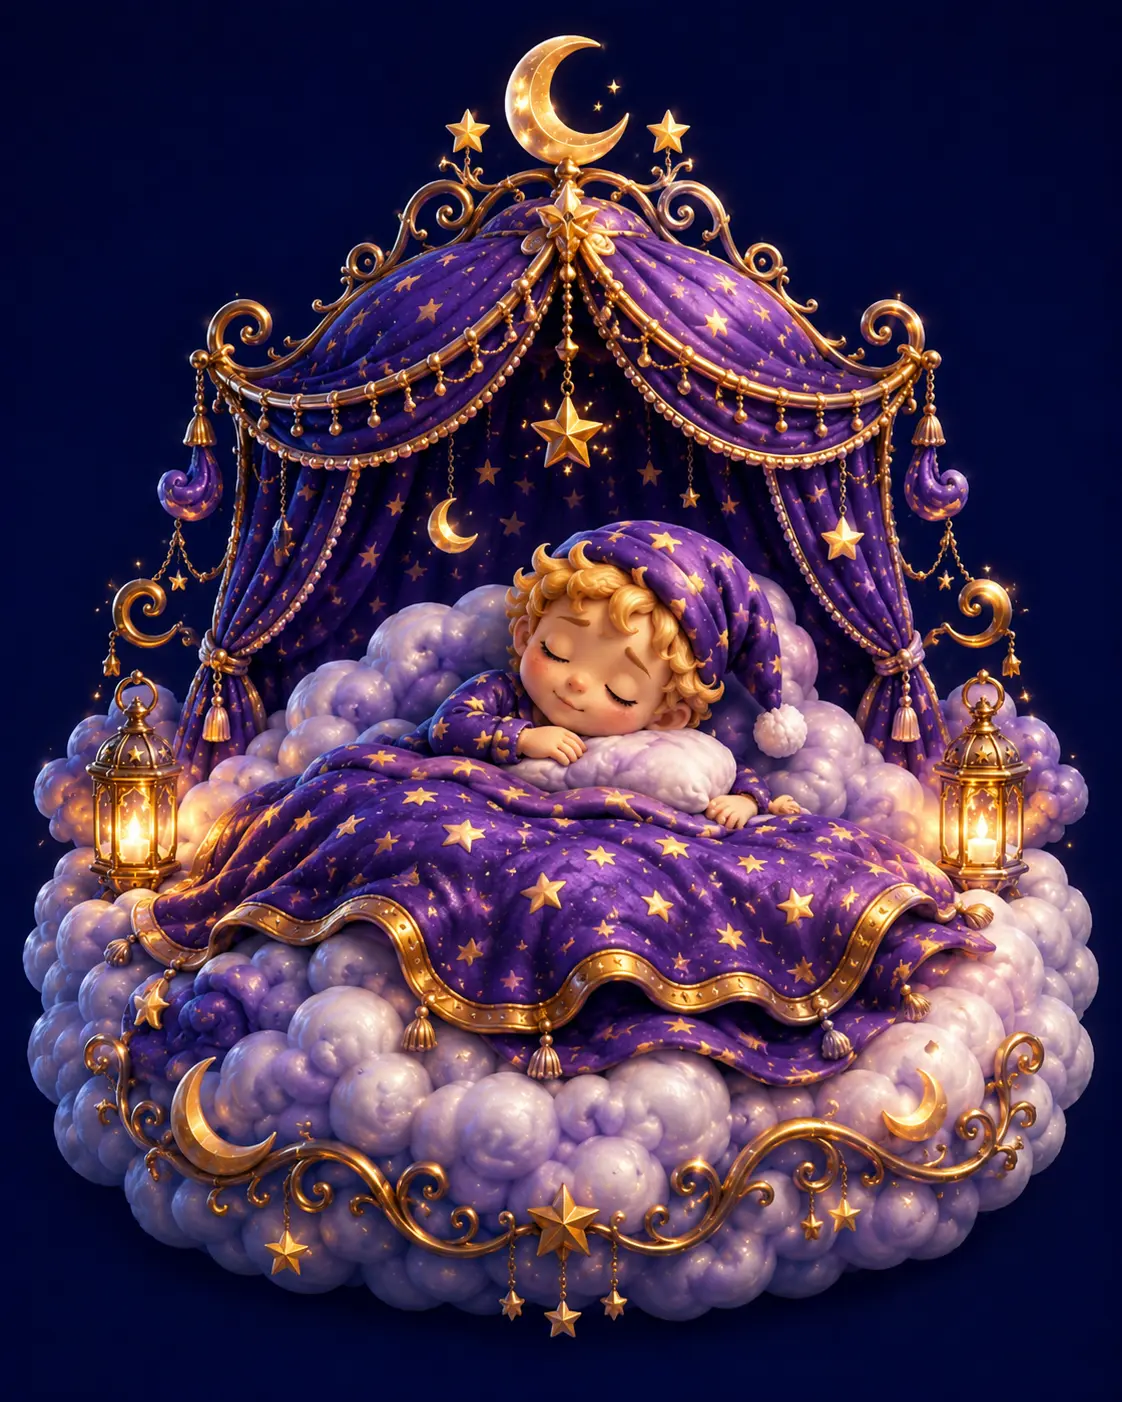
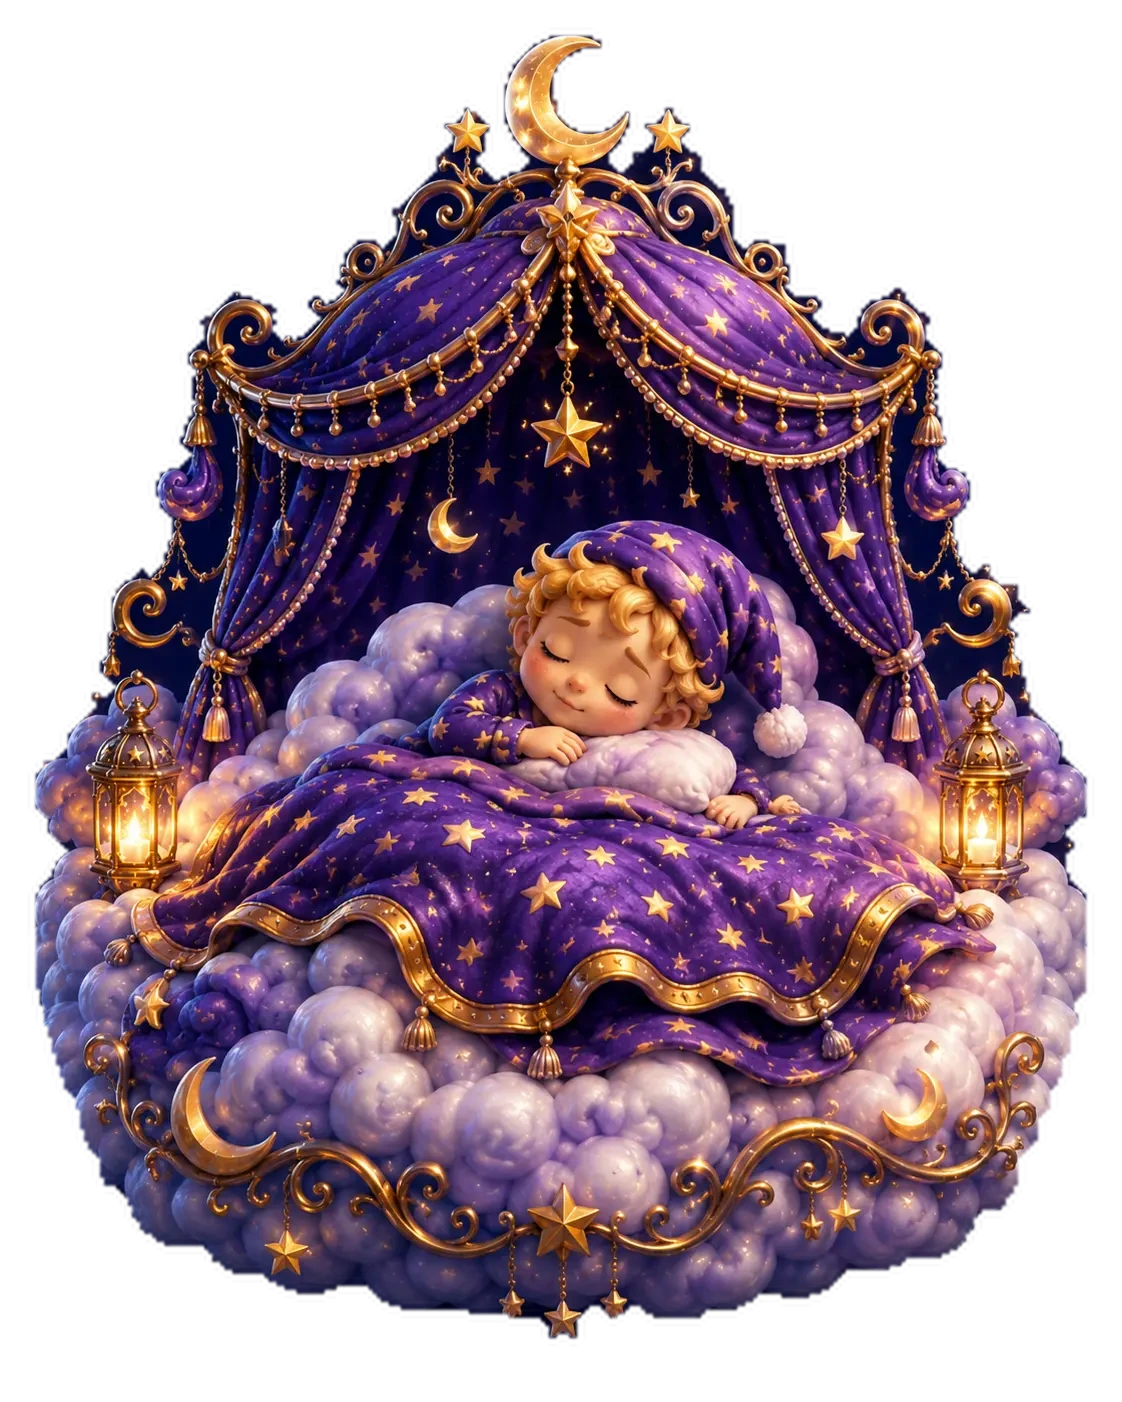
ChatGPT: remove remaining Park 3.1 backdrops
Extract Good Deed, Steps, and Sleep as true transparent WebP cutouts while preserving their progression effects. Home and Park 3 remain unchanged.

diff --git a/tests/park31-smoke.js b/tests/park31-smoke.js
@@ -85,7 +85,7 @@ vm.runInNewContext(source,sandbox,{filename:'park31.js'});
 
 assert.equal(ids.p31Stage.dataset.liveLevel,'7','live walking score is shown');
 assert.equal(ids.p31Stage.dataset.artLevel,'7','walking level selects matching artwork');
-assert.match(ids.p31Art.src,/\/l07\.webp\?v=1\.9$/,'level 7 loads l07.webp');
+assert.match(ids.p31Art.src,/\/l07\.webp\?v=1\.10$/,'level 7 loads l07.webp');
 assert.equal(levelNodes[6].attributes['aria-current'],'step','live evolution dot is selected');
 assert.ok(!ids.p31Stage.classList.contains('is-lit'),'park starts inactive');
 ids.p31Companion.listeners.click();
@@ -97,7 +97,7 @@ storage.rpg_habits_v1=JSON.stringify({walking:{score:0}});
 intervalTimers[0]();
 assert.equal(ids.p31Stage.dataset.liveLevel,'0');
 assert.equal(ids.p31Stage.dataset.artLevel,'1','technical level 0 deliberately uses Level 1 art');
-assert.match(ids.p31Art.src,/\/l01\.webp\?v=1\.9$/);
+assert.match(ids.p31Art.src,/\/l01\.webp\?v=1\.10$/);
 assert.ok(ids.p31Stage.classList.contains('is-zero'),'level 0 gets critical treatment');
 
 for(const missionDir of ['steps','nutrition','teeth','household','gratitude','good-deed','screen-time','cold-shower','no-weed','discipline','sleep']){
@@ -112,7 +112,7 @@ for(const missionDir of ['steps','nutrition','teeth','household','gratitude','go
   }
   assert.equal(new Set(digests).size,10,missionDir+' has ten distinct level images');
 }
-for(const missionDir of ['cold-shower','teeth']){
+for(const missionDir of ['cold-shower','teeth','good-deed','steps','sleep']){
   for(let level=1;level<=10;level++){
     const name='l'+String(level).padStart(2,'0')+'.webp';
     const bytes=fs.readFileSync(path.join(__dirname,'..','img','lab','park31',missionDir,name));
@@ -134,7 +134,7 @@ assert.equal(ids.p31RosterCount.textContent,'11/11 artwork ready','all eleven co
 
 const lab=fs.readFileSync(path.join(__dirname,'..','lab.html'),'utf8');
 assert.match(lab,/park31-lab\.js\?v=1\.1/,'the normal Lab loads its dedicated Daily Mission controller');
-assert.match(lab,/<iframe src="park31\.html\?embed=1&amp;mode=missions&amp;v=1\.9"/,'Park 3.1 renders interactively inside the normal Lab');
+assert.match(lab,/<iframe src="park31\.html\?embed=1&amp;mode=missions&amp;v=1\.10"/,'Park 3.1 renders interactively inside the normal Lab');
 assert.doesNotMatch(lab,/class="chatgpt-lab-card" href="park31\.html"/,'Park 3.1 is not hidden behind a separate Lab card');
 const home=fs.readFileSync(path.join(__dirname,'..','index.html'),'utf8');
 assert.doesNotMatch(home,/park31\.html\?embed=1&amp;mode=missions/,'Park 3.1 remains Lab-only during this release');
@@ -153,7 +153,7 @@ assert.equal(missionToggles.length,0,'a short tap never completes the mission');
 const liveStorage=storage.rpg_habits_v1;
 ids.p31Next.listeners.click();
 assert.equal(ids.p31ModalMeta.textContent,'PREVIEW 2 · LIVE 0','plus enters read-only level preview');
-assert.match(ids.p31ModalArt.src,/steps\/l02\.webp\?v=1\.9$/);
+assert.match(ids.p31ModalArt.src,/steps\/l02\.webp\?v=1\.10$/);
 assert.equal(storage.rpg_habits_v1,liveStorage,'preview does not touch real habit data');
 closeNodes[0].listeners.click();
 

diff --git a/park31.html b/park31.html
@@ -9,13 +9,13 @@
 <link rel="preconnect" href="https://fonts.googleapis.com">
 <link rel="preconnect" href="https://fonts.gstatic.com" crossorigin>
 <link href="https://fonts.googleapis.com/css2?family=Schibsted+Grotesk:wght@500;600;700;800&family=Inter:wght@400;500;600&display=swap" rel="stylesheet">
-<link rel="stylesheet" href="park31.css?v=1.9">
+<link rel="stylesheet" href="park31.css?v=1.10">
 <script src="https://cdn.jsdelivr.net/npm/@supabase/supabase-js@2"></script>
 <script src="auth.js?v=11.0" defer></script>
 <script src="sync.js?v=11.0" defer></script>
 <script src="topbar.js?v=11.0" defer></script>
 <script src="xp.js?v=10.98" defer></script>
-<script src="park31.js?v=1.9" defer></script>
+<script src="park31.js?v=1.10" defer></script>
 </head>
 <body>
 <main class="p31-shell">
@@ -36,7 +36,7 @@
     <div class="p31-arch" aria-hidden="true"><span>GAMENFY</span><small>PARK 3.1</small></div>
     <button class="p31-companion" id="p31Companion" type="button" aria-pressed="false" aria-label="Turn the park light on">
       <span class="p31-halo" aria-hidden="true"></span>
-      <img id="p31Art" src="img/lab/park31/steps/l01.webp?v=1.9" alt="Steps companion at level 1" draggable="false">
+      <img id="p31Art" src="img/lab/park31/steps/l01.webp?v=1.10" alt="Steps companion at level 1" draggable="false">
       <span class="p31-error" id="p31Error" role="status" hidden>The Steps artwork could not load.</span>
     </button>
     <div class="p31-light-state" id="p31LightState" aria-live="polite">Park light off</div>
@@ -69,7 +69,7 @@
     <button class="p31-close" type="button" data-p31-close aria-label="Close">×</button>
     <div class="p31-modal-kicker" id="p31ModalMeta">LIVE LEVEL</div>
     <h2 id="p31ModalTitle" tabindex="-1">Mission</h2>
-    <div class="p31-modal-art"><img id="p31ModalArt" src="img/lab/park31/steps/l01.webp?v=1.9" alt="" draggable="false"></div>
+    <div class="p31-modal-art"><img id="p31ModalArt" src="img/lab/park31/steps/l01.webp?v=1.10" alt="" draggable="false"></div>
     <div class="p31-level-row">
       <button id="p31Prev" type="button" aria-label="Preview previous level">−</button>
       <div><strong id="p31ModalLevel">Level 1</strong><span id="p31ModalState">Starter</span></div>

diff --git a/lab.html b/lab.html
@@ -291,7 +291,7 @@ body.at1-paused .at1-speedline,body.at1-paused .at1-shadow{animation-play-state:
       <span class="park31-lab-live"><i></i> LIVE DATA</span>
     </div>
     <div class="park31-frame">
-      <iframe src="park31.html?embed=1&amp;mode=missions&amp;v=1.9" title="Park 3.1 Daily Mission companions" loading="eager"></iframe>
+      <iframe src="park31.html?embed=1&amp;mode=missions&amp;v=1.10" title="Park 3.1 Daily Mission companions" loading="eager"></iframe>
     </div>
   </section>
 

diff --git a/park31.js b/park31.js
@@ -7,7 +7,7 @@
   'use strict';
 
   var KEY='walking';
-  var VERSION='1.9';
+  var VERSION='1.10';
   var HOLD_MS=560;
   var MISSIONS=[
     {key:'walking',label:'Steps',emoji:'👟',dir:'steps'},

diff --git a/PARK31-STEPS-NOTES.md b/PARK31-STEPS-NOTES.md
@@ -32,10 +32,11 @@ Built by ChatGPT (OpenAI), 2026-08-31.
 - Park 3.1 reserves roster slots for all eleven current Daily Mission habits.
 - Each slot follows one fixed `l01.webp` through `l10.webp` asset contract documented in `img/lab/park31/ASSET-MAP.md`.
 - Steps, Sleep, Good Deed, Cold Shower, Screen Time, Gardening and Discipline are live with ten separate level images each.
-- Sleep and Good Deed use the original generated files from Joey's Paarse Paard branch.
+- Sleep and Good Deed keep the original generated artwork from Joey's Paarse Paard branch. Their embedded navy backdrops were technically removed on 2026-09-02, preserving the clouds, beds, stone platforms, hearts and gold effects as transparent cutouts.
 - Cold Shower keeps the approved Paarse Paard progression, but its ten amusement-park backgrounds were replaced and technically keyed to true transparency on 2026-09-02. The result is reviewed on pink, mint and dark backgrounds.
 - Screen Time, Gardening and Discipline use the corrected individual assets from Joey's Witte Paard branch, including the intentionally extreme Level 1 forms.
 - Gratitude and Nutrition use the final Gouden Paard files, technically cleaned to true transparency without generating replacement artwork.
 - Brush Teeth was re-cleaned on 2026-09-02: the central characters stay intact while checkerboard fragments and ragged detached effect remnants are removed from all ten levels.
 - Household Levels 2–10 keep their cleaned Gouden Paard artwork. Level 1 is intentionally replaced by a more confronting, overwhelmed starter form with trash, laundry, dishes and dust to make the cleanup mission motivating immediately.
+- Steps Levels 1–10 were technically extracted from their navy rectangles on 2026-09-02. The exact approved companions and running trails remain; only the fixed rectangular scenery is transparent.
 - In the embedded Lab, companions use a three-column card grid: recognizably based on Park 3.0, but slightly smaller so all eleven fit without one oversized focus image.

diff --git a/img/lab/park31/ASSET-MAP.md b/img/lab/park31/ASSET-MAP.md
@@ -18,4 +18,4 @@ Park 3.1 has **11 Daily Mission companions**, each with **10 level images**. Eve
 
 All directories live beneath `img/lab/park31/`. Example: Level 4 Cold Shower belongs at `img/lab/park31/cold-shower/l04.webp`.
 
-All eleven companion sets are complete. Gratitude and Nutrition use technically cleaned Gouden Paard artwork. Brush Teeth was re-cleaned to remove checkerboard and effect-edge remnants without changing the characters. Cold Shower Levels 1–10 now use true transparent cutouts without the embedded amusement-park scenery. Household Level 1 is the deliberately stronger, mess-heavy starter form; Levels 2–10 keep the cleaned Gouden Paard progression.
+All eleven companion sets are complete. Gratitude and Nutrition use technically cleaned Gouden Paard artwork. Brush Teeth was re-cleaned to remove checkerboard and effect-edge remnants without changing the characters. Cold Shower Levels 1–10 now use true transparent cutouts without the embedded amusement-park scenery. Good Deed, Steps and Sleep are also true transparent cutouts: their approved characters, platforms, clouds and level effects remain while the fixed navy rectangles are gone. Household Level 1 is the deliberately stronger, mess-heavy starter form; Levels 2–10 keep the cleaned Gouden Paard progression.

diff --git a/BUILDER-NOW.md b/BUILDER-NOW.md
@@ -88,8 +88,9 @@ Verified against GitHub on 2026-08-31:
 - All ten Cold Shower levels are now true transparent WebP cutouts. The embedded night amusement-park scenery is gone; characters, water effects and purple stone pedestals remain.
 - All ten Brush Teeth levels were re-cleaned. Checkerboard fragments and ragged detached effect remnants are removed while the companion progression stays intact.
 - Household Level 1 is now intentionally more confronting: the same companion is overwhelmed by trash, laundry, dirty dishes and dust, giving the mission a stronger immediate cleanup trigger.
+- Good Deed, Steps and Sleep Levels 1–10 are now true transparent WebP cutouts. Their characters and progression effects remain intact; the fixed navy rectangular backdrops are gone.
 - Every changed cutout was reviewed on pink, mint and dark backgrounds. Automated smoke coverage now verifies that the affected WebP files contain real alpha data.
-- Asset URLs were bumped to Park 3.1 version 1.9 so the normal Lab cannot keep stale artwork in cache.
+- Asset URLs were bumped to Park 3.1 version 1.10 so the normal Lab cannot keep stale artwork in cache.
 
 ## Next build sequence
 
